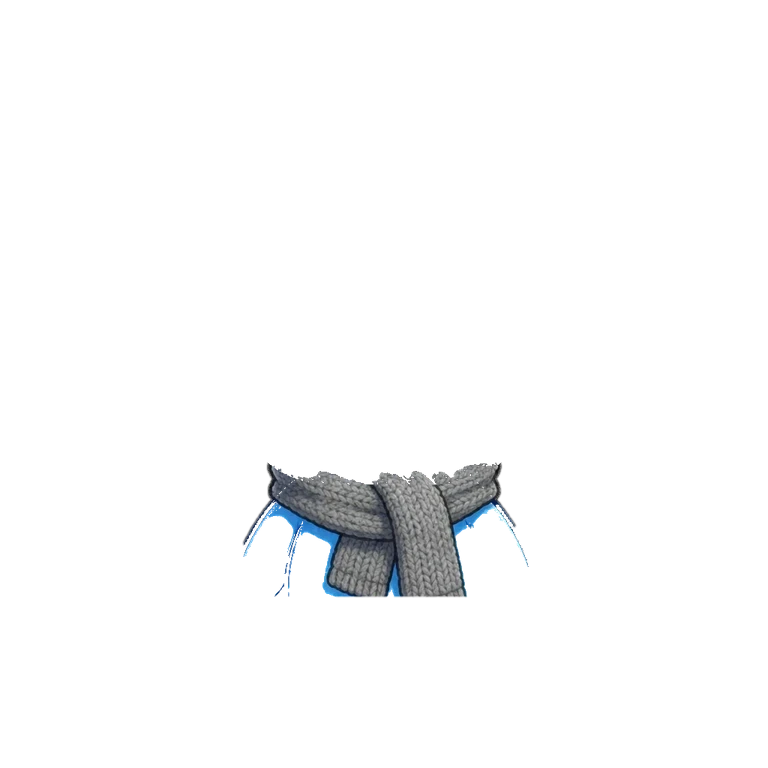
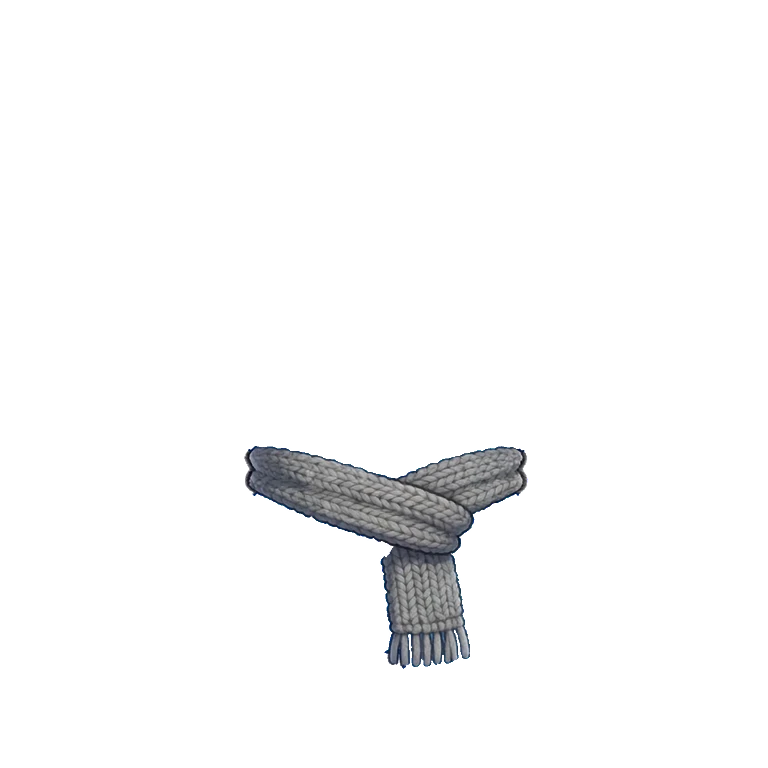
Pi: mở bán 9 món cổ Muse vẽ riêng — 7 khăn (sọc đỏ xanh, khăn rằn, len xám, quàng đỏ; lông trắng, lụa hồng, dải lụa hồng) + vòng răng nanh, vòng thỏ ngọc sạch viền
- còn chờ: khăn len trắng quả bông nữ (quả bông phải bị trong suốt), ba lô → túi đeo chéo

Claude-Session: https://claude.ai/code/session_0163KSZYdzHDud2uG42gs7mp

Changed region(s): [[0.3125, 0.5625, 0.6875, 0.875]]

diff --git a/scripts/pi/build.py b/scripts/pi/build.py
@@ -96,7 +96,7 @@ for side in ("trai", "phai"):
 # 24/10 soát từng món: vệt lá cũ sót xa gốc lá (vùng rộng; KHÔNG áp chung vì vòng hoa có lá thật)
 # 24/10 tối (chủ dự án chốt): món Muse vẽ RIÊNG trên nền trong suốt → chỉ đặt đè lên, KHÔNG chạy bộ cắt lá / vụn (cắt nhầm mũ xanh lá)
 STANDALONE = {  # 25/10: mũ vẽ riêng đã duyệt ghép (mũ trùm đầu → ẩn lá)
-              "giangsinh-nam-dau01", "giangsinh-nam-dau02", "giangsinh-nam-dau03", "giangsinh-nam-dau04", "giangsinh-nu-dau01", "giangsinh-nu-dau04", "halloween-nam-dau02", "halloween-nam-dau05", "muadong-nam-dau01", "muadong-nam-dau02", "muadong-nam-dau03", "muadong-nam-dau05", "muadong-nu-dau01", "muadong-nu-dau03", "muadong-nu-dau04", "muahe-nam-dau02", "muahe-nam-dau03", "muahe-nu-dau01", "tet-nam-dau01", "tet-nam-dau02", "tet-nam-dau04", "tet-nu-dau01", "tet-nu-dau02", "tet-nu-dau03", "trungthu-nam-dau02", "trungthu-nam-dau04", "trungthu-nam-dau05", "trungthu-nu-dau05", "halloween-nam-dau01", "halloween-nu-dau01", "muahe-nu-dau04", "tet-nam-dau03", "trungthu-nam-dau01", "muahe-nam-dau01", "muahe-nu-dau02", "giangsinh-nam-dau05", "giangsinh-nu-dau02", "muahe-nam-dau04", "tet-nu-dau05", "trungthu-nam-dau03", "trungthu-nu-dau02", "muadong-nam-pk01", "muadong-nu-pk01"}
+              "giangsinh-nam-dau01", "giangsinh-nam-dau02", "giangsinh-nam-dau03", "giangsinh-nam-dau04", "giangsinh-nu-dau01", "giangsinh-nu-dau04", "halloween-nam-dau02", "halloween-nam-dau05", "muadong-nam-dau01", "muadong-nam-dau02", "muadong-nam-dau03", "muadong-nam-dau05", "muadong-nu-dau01", "muadong-nu-dau03", "muadong-nu-dau04", "muahe-nam-dau02", "muahe-nam-dau03", "muahe-nu-dau01", "tet-nam-dau01", "tet-nam-dau02", "tet-nam-dau04", "tet-nu-dau01", "tet-nu-dau02", "tet-nu-dau03", "trungthu-nam-dau02", "trungthu-nam-dau04", "trungthu-nam-dau05", "trungthu-nu-dau05", "halloween-nam-dau01", "halloween-nu-dau01", "muahe-nu-dau04", "tet-nam-dau03", "trungthu-nam-dau01", "muahe-nam-dau01", "muahe-nu-dau02", "giangsinh-nam-dau05", "giangsinh-nu-dau02", "muahe-nam-dau04", "tet-nu-dau05", "trungthu-nam-dau03", "trungthu-nu-dau02", "muadong-nam-pk01", "muadong-nu-pk01", "giangsinh-nam-pk03", "halloween-nam-pk04", "muadong-nam-pk02", "muadong-nu-pk02", "tet-nam-pk03", "tet-nu-pk04", "trungthu-nam-pk09", "trungthu-nam-pk10", "trungthu-nu-pk10"}
 SHOE_SCALE = {"tet-nu-giay02": 0.66}
 LEAF_WIDE = {"giangsinh-nam-dau05", "trungthu-nam-dau03", "muahe-nam-dau05", "trungthu-nu-dau02"}
 ARM_HIDE = {"giangsinh-nam-pk07": "trai", "muadong-nam-pk08": "trai", "muadong-nu-pk08": "trai", "muahe-nam-pk05": "trai",
